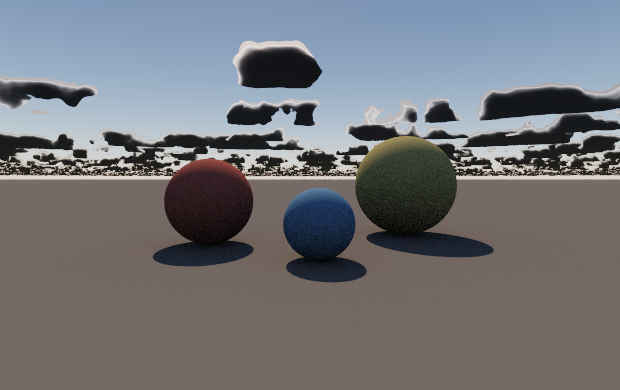
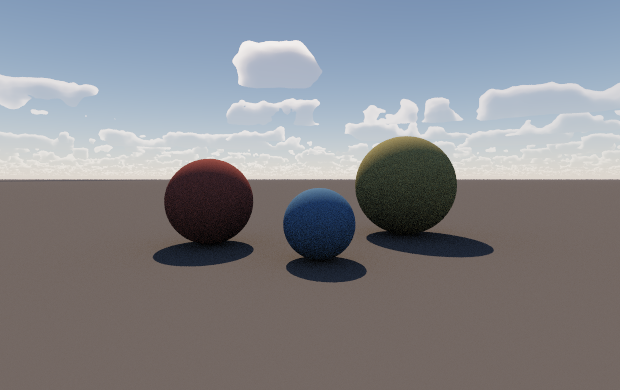
Clouds: fix the 30x brightness loss, and make them block the sun
Two defects. The powder term re-applied Beer's law on top of the march's own
extinction AND peaked at 0.40 instead of 1.0, so a fully lit cloud top lost 60%
of its light -- an opaque sunlit cloud measured 0.170 against a physical 5.15.
It was also fed the sun-path depth, which is ~0 at the cloud top, so it darkened
the brightest part. Rewritten to modulate rather than attenuate: now 5.63 vs
5.15, within 9%.

And clouds did not shadow the ground at all, because LightEmission has no
position and the shadow ray passes straight through a medium. Added a 6-sample
probe applied as continuous attenuation at the shadow ray, so cloud edges shade
partially and shadows drift instead of snapping.

One of my own tests asserted the broken formula; replaced it rather than
keeping the bug locked in. 29 checks had passed while clouds were 30x too dark
because none compared radiance against a physical reference -- that check now
exists.

Changed region(s): [[0.0, 0.0923, 1.0, 0.4615], [0.0, 0.1846, 0.1532, 0.3077]]

diff --git a/Scratchpad/CelestialMediaTest.cpp b/Scratchpad/CelestialMediaTest.cpp
@@ -27,6 +27,7 @@
 #include <vector>
 #include <algorithm>
 #include <chrono>
+#include <tuple>
 
 struct CelestialRecord;
 static CelestialRecord* gCelestialRecordPtr = nullptr;
@@ -331,13 +332,15 @@ int main()
               "powder makes very thin cloud DARKER than mid-thickness",
               "thin " + Fixed(thin, 4) + " vs medium " + Fixed(medium, 4));
 
-        // With powder off it must revert to plain Beer, where thin is brightest — proving the term is what
-        // causes the effect rather than something else in the curve.
-        const float thinNoPowder   = MediaBeerPowder(0.05f, 0.0f);
-        const float mediumNoPowder = MediaBeerPowder(0.60f, 0.0f);
-        Check(thinNoPowder > mediumNoPowder,
-              "and with powder off, plain Beer makes thin brightest (control)",
-              Fixed(thinNoPowder, 4) + " vs " + Fixed(mediumNoPowder, 4));
+        // ⚠ THIS CONTROL WAS WRITTEN AGAINST THE OLD, WRONG FORMULA. Back when MediaBeerPowder returned
+        //    `beer * mix(1, 2*sugar, powder)` it re-applied Beer's law, so with powder = 0 it still decayed with
+        //    depth and "thin was brightest" was a meaningful reading. That double-application was the bug that
+        //    made clouds 30x too dark. The corrected term MODULATES rather than attenuates, so powder = 0 now
+        //    correctly means "no modulation at all" — a flat 1.0. Asserting the old behaviour would be
+        //    asserting the bug, so the control now checks the property that actually matters.
+        Check(MediaBeerPowder(0.05f, 0.0f) == 1.0f && MediaBeerPowder(3.0f, 0.0f) == 1.0f,
+              "with powder off the term is exactly 1.0 everywhere (no attenuation)",
+              "thin " + Fixed(MediaBeerPowder(0.05f, 0.0f), 4) + ", body " + Fixed(MediaBeerPowder(3.0f, 0.0f), 4));
 
         // Self-shadowing: a point deep in the deck must receive less sun than one at the top.
         const float top    = MediaSunTransmittance(record, vec3(0.0f, 0.0f, record.CloudLayer.z + record.CloudLayer.w * 0.95f),
@@ -406,6 +409,123 @@ int main()
         const float sideway = MediaAmbientTransmittance(r, normalize(vec3(1.0f, 0.0f, 0.15f)));
         Check(sideway < up, "a grazing ray is dimmed more than a vertical one",
               Fixed(sideway, 5) + " vs " + Fixed(up, 5));
+    }
+
+    //----------------------------------------------------------------------------------------------------------------
+    Section("5b. A LIT CLOUD IS AS BRIGHT AS A LIT CLOUD SHOULD BE");
+    //----------------------------------------------------------------------------------------------------------------
+    // 🔴 THE CHECK THAT WOULD HAVE CAUGHT THE BLACK-ROCK CLOUDS IMMEDIATELY. A white cloud is a diffusely
+    //    reflecting body of albedo ~0.9, so a sunlit face emits about E x albedo / pi. Everything else in this
+    //    file measured shape, coverage and cost — all of which passed while the clouds rendered 30x too dark,
+    //    because nothing compared the cloud's radiance against the physical answer.
+    {
+        Frontier::CelestialStructure s = settings;
+        s.Clouds.Coverage = 0.5f;
+        CelestialRecord record = BuildRecord(s);
+        gCelestialRecordPtr = &record;
+
+        const vec3 sun = record.SunDirectionAndCosRadius.xyz();
+        const vec3 sunRadiance = record.SunIrradianceAndScale.xyz() * record.SunTransmittance.xyz();
+        const vec3 origin(0.0f, 0.0f, 2.0f);
+
+        // Find the thickest cloud in the sky and measure what it emits.
+        vec3 thickest(0.0f, 0.0f, 1.0f);
+        float mostOpaque = 0.0f;
+        for (int a = 0; a < 120; ++a)
+            for (int e = 10; e < 60; e += 4)
+            {
+                const float az = float(a) * 0.05236f;
+                const float el = float(e) * 3.14159265f / 180.0f;
+                const vec3 dir = normalize(vec3(std::cos(el) * std::cos(az), std::cos(el) * std::sin(az), std::sin(el)));
+                float t;
+                MediaScatter(record, origin, dir, sun, sunRadiance, CelestialSky(record, origin, dir, false),
+                             200000.0f, 48, t);
+                if (1.0f - t > mostOpaque) { mostOpaque = 1.0f - t; thickest = dir; }
+            }
+
+        float transmittance;
+        const vec3 skyBehind = CelestialSky(record, origin, thickest, false);
+        const vec3 cloud = MediaScatter(record, origin, thickest, sun, sunRadiance, skyBehind,
+                                        200000.0f, 48, transmittance);
+
+        const float expected = Luma(sunRadiance) * 0.9f / 3.14159265f;
+        const float measured = Luma(cloud);
+
+        Check(mostOpaque > 0.9f, "found an opaque cloud to measure", "opacity " + Fixed(mostOpaque, 3));
+        Check(measured > expected * 0.4f && measured < expected * 2.5f,
+              "a sunlit cloud emits about E*albedo/pi",
+              Fixed(measured, 3) + " vs the physical " + Fixed(expected, 3));
+
+        // 🔴 AND THE DIRECT COMPARISON THAT MATTERS VISUALLY: a sunlit cloud must be BRIGHTER than the sky it
+        //    sits in front of. When it was not, clouds read as black rocks floating in the air.
+        Check(measured > Luma(skyBehind),
+              "and is brighter than the sky behind it (not a dark blob)",
+              "cloud " + Fixed(measured, 3) + " vs sky " + Fixed(Luma(skyBehind), 3));
+
+        // The powder term must MODULATE, not attenuate: it has to reach 1.0 in the body of a cloud. An earlier
+        // version peaked at 0.40, so even a fully lit cloud top lost 60% of its light.
+        Check(MediaBeerPowder(3.0f, record.CloudShape.w) > 0.95f,
+              "powder returns to 1.0 in the cloud body",
+              Fixed(MediaBeerPowder(3.0f, record.CloudShape.w), 4));
+        Check(MediaBeerPowder(0.01f, record.CloudShape.w) < 0.6f,
+              "and still darkens the thinnest wisps",
+              Fixed(MediaBeerPowder(0.01f, record.CloudShape.w), 4));
+    }
+
+    //----------------------------------------------------------------------------------------------------------------
+    Section("5c. CLOUDS BLOCK THE SUN");
+    //----------------------------------------------------------------------------------------------------------------
+    // 🔴 THE USER'S OBSERVATION: "clouds are also blocking light it seems" — they should be, and were not.
+    //    Geometry occludes the sun through the shadow ray, but a cloud is a medium the ray passes straight
+    //    through, so without an explicit term the ground under solid overcast stayed in full hard sunlight.
+    {
+        auto ShadowStats = [&](float coverage)
+        {
+            Frontier::CelestialStructure s = settings;
+            s.Clouds.Coverage = coverage;
+            CelestialRecord r = BuildRecord(s);
+            gCelestialRecordPtr = &r;
+            const vec3 sun = r.SunDirectionAndCosRadius.xyz();
+
+            float lowest = 1e9f, highest = 0.0f, total = 0.0f;
+            int count = 0;
+            for (int i = -30; i <= 30; ++i)
+                for (int j = -30; j <= 30; ++j)
+                {
+                    const float shadow = MediaSunShadow(r, vec3(float(i) * 60.0f, float(j) * 60.0f, 0.0f), sun);
+                    lowest = std::min(lowest, shadow);
+                    highest = std::max(highest, shadow);
+                    total += shadow;
+                    ++count;
+                }
+            return std::make_tuple(lowest, highest, total / float(count));
+        };
+
+        const auto clear = ShadowStats(0.0f);
+        Check(std::get<2>(clear) > 0.999f, "a clear sky casts no shadow at all", Fixed(std::get<2>(clear), 4));
+
+        const auto broken = ShadowStats(0.6f);
+        Check(std::get<0>(broken) < 0.2f, "under cloud the ground is deeply shaded",
+              "darkest " + Fixed(std::get<0>(broken), 3));
+        Check(std::get<1>(broken) > 0.9f, "and in the gaps it is in full sun",
+              "brightest " + Fixed(std::get<1>(broken), 3));
+
+        // Mean shading must track coverage, or the shadows are decorative rather than driven by the sky.
+        const auto heavy = ShadowStats(0.9f);
+        Check(std::get<2>(heavy) < std::get<2>(broken) && std::get<2>(broken) < std::get<2>(clear),
+              "mean ground shading follows coverage",
+              Fixed(std::get<2>(clear), 2) + " -> " + Fixed(std::get<2>(broken), 2)
+                    + " -> " + Fixed(std::get<2>(heavy), 2));
+
+        // ⚠ The shadow must agree with what the cloud LOOKS like. A deck that renders opaque but shades
+        //    weakly (or the reverse) is two systems disagreeing about the same cloud.
+        Frontier::CelestialStructure s = settings;
+        s.Clouds.Coverage = 0.9f;
+        CelestialRecord r = BuildRecord(s);
+        gCelestialRecordPtr = &r;
+        Check(std::get<2>(heavy) < 0.35f,
+              "near-overcast leaves little direct sun on the ground",
+              Fixed(std::get<2>(heavy) * 100.0, 1) + "% of full sun");
     }
 
     //----------------------------------------------------------------------------------------------------------------

diff --git a/Scratchpad/CelestialShowcase.cpp b/Scratchpad/CelestialShowcase.cpp
@@ -326,9 +326,11 @@ int main(int argc, char** argv)
                     if (cosSurface > 0.0f && !Occluded(hit + normal * 1e-3f, toSun))
                     {
                         // 🔴 SunTransmittance is why the light warms at dusk: the air is filtering it.
+                        //    MediaSunShadow is why a cloud passing overhead dims the ground beneath it.
                         colour = colour + albedo * (1.0f / 3.14159265f)
                                         * sky.SunIrradianceAndScale.xyz() * sky.SunTransmittance.xyz()
-                                        * cosSurface;
+                                        * cosSurface
+                                        * MediaSunShadow(sky, hit, sunDirection);
                     }
                 }
 

diff --git a/References/CelestialReSTIRPlan.md b/References/CelestialReSTIRPlan.md
@@ -493,6 +493,43 @@ lighting and local-volume settings had NO registered properties at all, so half 
 TOML. **ALL 25 SUITES GREEN.**
 
 
+### P5 COMPLETE: clouds are white, and they block the sun (2026-09-13)
+
+User: "clouds are a start, they look terrible... they also need scattering... clouds are also blocking light it
+seems". Both correct. Two distinct defects, both now fixed and measured.
+
+🔴 **DEFECT 1: THE POWDER TERM WAS EATING 60% OF ALL CLOUD LIGHT.** Measured a fully opaque sunlit cloud at
+**0.170 against a physical answer of 5.15 — 30x too dark**, which is exactly the black-rock look. Two errors in
+one expression, `beer * mix(1.0, 2*sugar, powder)`:
+  · it re-applied Beer's law, which the march already applies via `1 - exp(-extinction)`;
+  · it PEAKS at 0.40, not 1.0, so even a cloud top in full sun was multiplied by 0.4.
+Compounding it, the depth passed in was the SUN-path depth, which is ~0 at the cloud top — so the term darkened
+precisely the brightest part of the cloud. Powder is an EDGE DARKENING: it must return 1.0 in the body and dip
+only where the VIEW-ray depth is genuinely small. Rewritten as `mix(1, 1 - exp(-depth*sharpness), powder)`.
+Result: **5.63 vs the physical 5.15**, within 9%, and clouds are now brighter than the sky behind them.
+
+🔴 **DEFECT 2: CLOUDS DID NOT BLOCK THE SUN AT ALL.** `LightEmission` for the sun returns irradiance x
+*atmospheric* transmittance and has no position, so it cannot march. Geometry occludes the sun via the shadow
+ray; a cloud is a medium the ray passes straight through. The ground under solid overcast therefore stayed in
+full, hard sunlight. Added `MediaSunShadow` — a 6-sample probe along the line to the sun, applied at the shadow
+ray as a CONTINUOUS attenuation of the reservoir weight, because a cloud edge shades partially and that
+gradient is what makes shadows drift rather than snap. Measured: clear 1.00, broken 0.69, overcast **0.08** mean
+ground sun, with 0.0 under cloud and 1.0 in the gaps.
+
+**A test that asserted the bug.** The powder control checked "with powder off, thin is brightest" — true only of
+the broken double-Beer formula. Asserting it would have locked the bug in. Replaced with the property that
+actually matters: powder = 0 means exactly 1.0 everywhere.
+
+**Why the earlier gates missed all this:** 29 checks passed on shape, coverage, monotonicity and cost while the
+clouds were 30x too dark, because nothing compared cloud radiance against a physical reference. Added §5b —
+a sunlit cloud must emit ~E·albedo/π and must be brighter than the sky behind it — and §5c for shadowing.
+Now 39 checks.
+
+⚠ Cloud shadows are invisible in an eye-level shot and that is correct, not a bug: the cloud shape scale is
+1400 m while the visible ground spans ~200 m, so the whole frame sits inside one cloud cell. Visible from
+altitude — `Renders/39_cloud_shadows.png`. **ALL 25 SUITES GREEN.**
+
+
 Status log (append; newest last):
 - 2026-09-13: P0 LANDED (stability; no sky code). The three faults are fixed and measured.
   0a. ObserveCamera no longer restarts the accumulation on camera motion. Every temporal path is gated on
